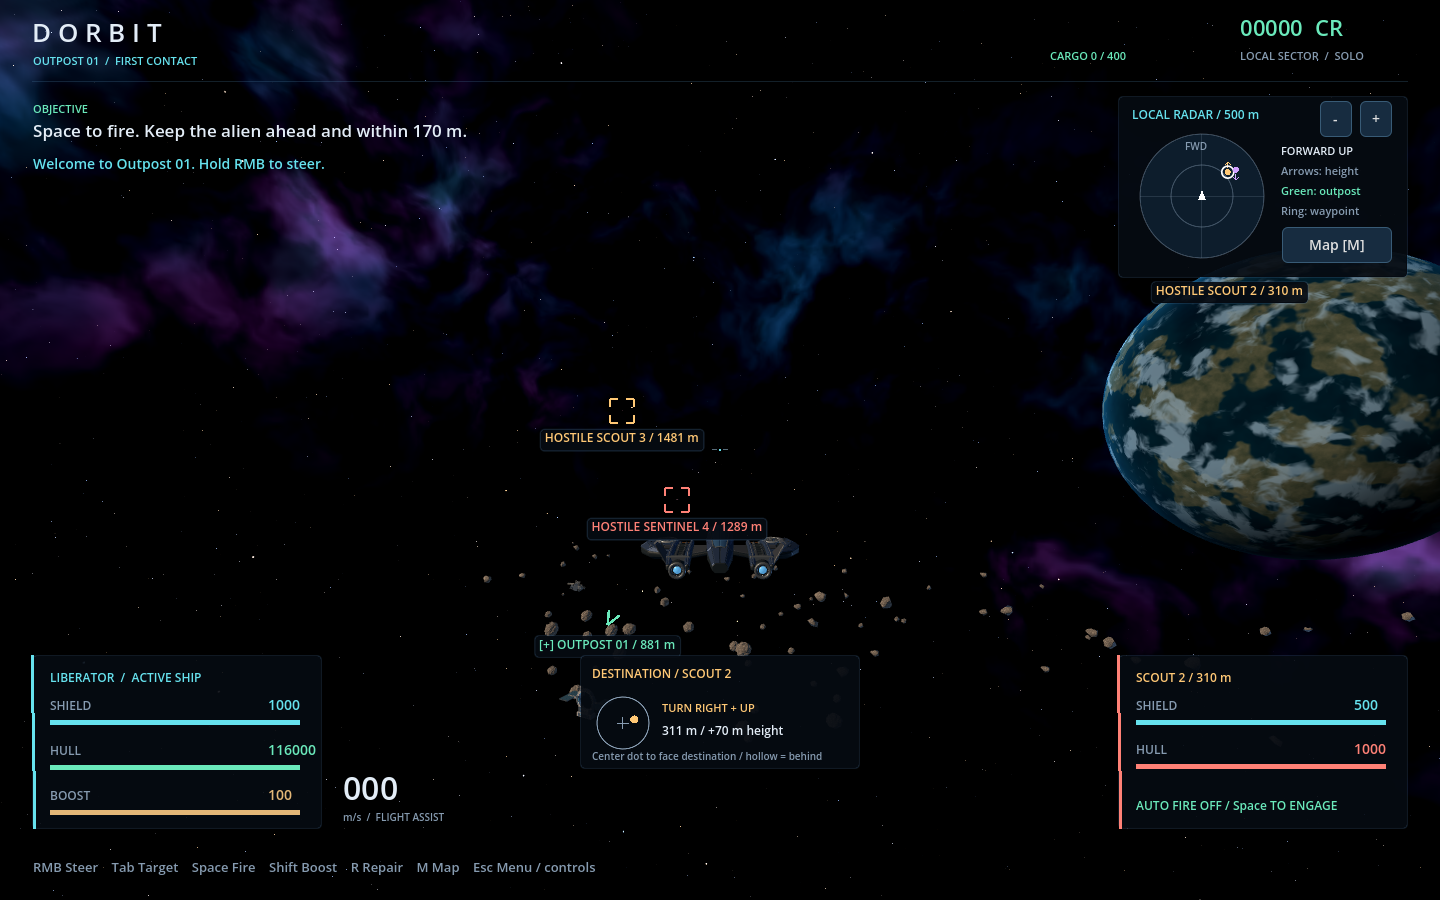
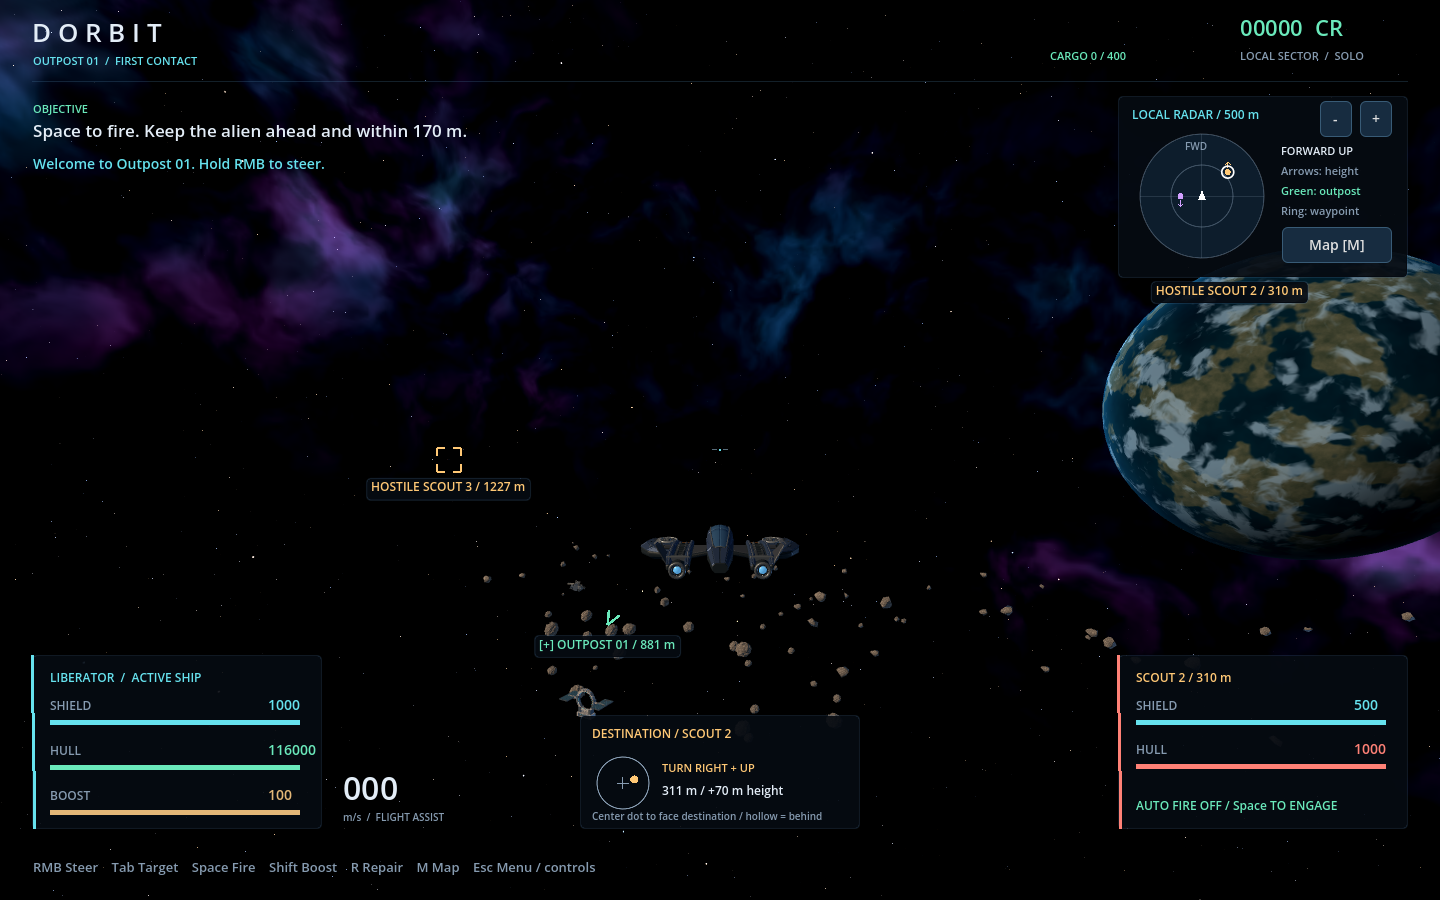
fix: align guidance panel with flight HUD bottoms

diff --git a/GAME_PLAN.md b/GAME_PLAN.md
@@ -119,6 +119,8 @@ The edge has no movement clamp. Within 120 m of it, the HUD warns of radiation a
 
 Following playtesting, the user approved replacing the paired world-axis maps with ship-relative navigation. One local radar keeps forward at the top, left/right aligned with steering, and height arrows for contacts above or below. Its range buttons select 250, 500, 1,000 or 2,400 m. A destination compass shows turn guidance, distance and relative height; forward contacts use a filled dot and contacts behind use a hollow dot. Manual alien selection updates the waypoint. Radiation temporarily guides toward the nearest safe re-entry point, then restores the chosen destination.
 
+The user accepted the current map and navigation after playtesting. The center destination panel aligns its bottom with the ship-health and selected-enemy panels at every supported window size.
+
 M opens a larger sector overview with a rotatable height projection and contact list. Clicking a contact or its row sets the destination and returns to flight; alien destinations also use normal combat selection, while outpost/friendly destinations clear the combat target. M or Esc closes it. Opening releases steering and disables automatic fire. Solo simulation pauses; multiplayer and radiation continue on the server. Rescue and disconnect close the overview, and missing contacts fall back to the outpost. This adds navigation controls within the current sector, with no fog of war or arbitrary-coordinate waypoints. Network schema 6 adds exposure and random home state and deliberately rejects older builds, including PR 34's schema 4.
 
 ### Death and recovery
